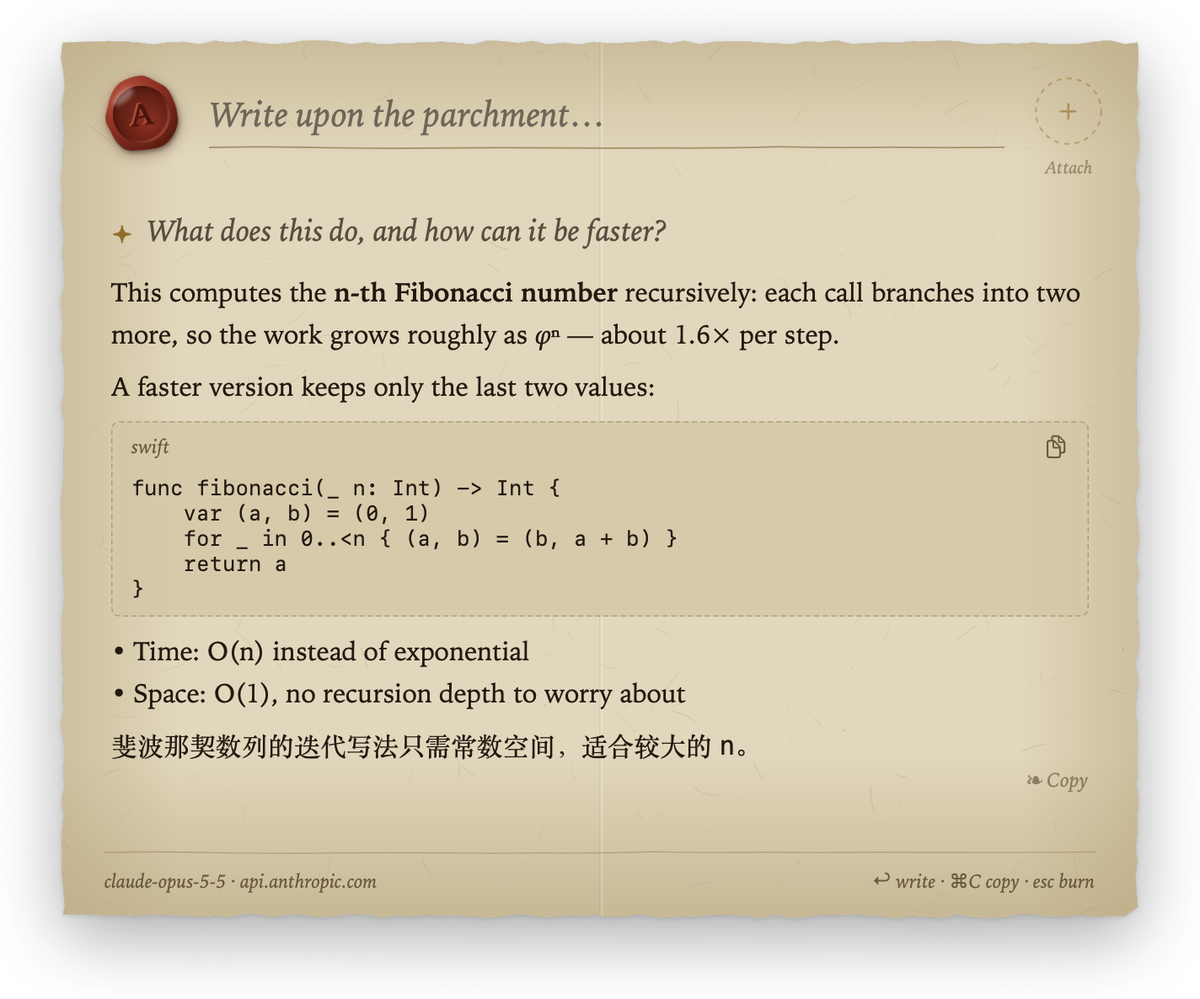
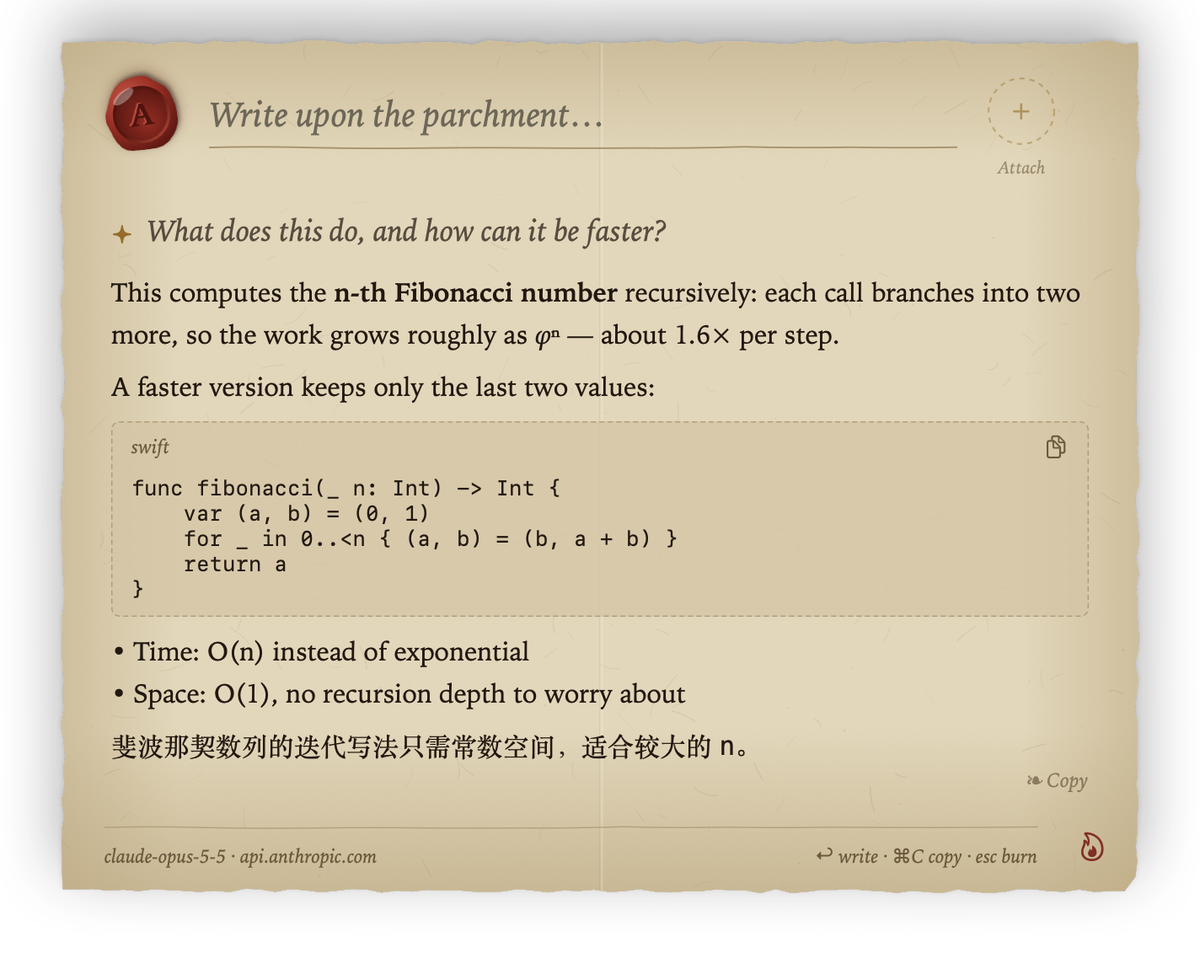
docs: align product guidance and screenshots with current behavior
Refresh synthetic app screenshots and bilingual setup/privacy guidance. Distinguish conceal from burn, mark superseded transcript rules, and preserve four tested boundary invariants in project guidance.

diff --git a/site/index.html b/site/index.html
@@ -4,7 +4,7 @@
   <meta charset="utf-8">
   <meta name="viewport" content="width=device-width, initial-scale=1">
   <title>Howler — Burn after reading</title>
-  <meta name="description" content="A sealed letter for quick AI questions on macOS. Write on parchment, a quill writes the answer, and the letter burns when you're done. Menu bar, any model, nothing saved.">
+  <meta name="description" content="A sealed letter for quick AI questions on macOS. Write on parchment, a quill writes the answer, and the letter burns when you're done. Menu bar, any model, no saved chat history.">
   <meta name="color-scheme" content="light dark">
   <meta name="theme-color" content="#f3ead6" media="(prefers-color-scheme: light)">
   <meta name="theme-color" content="#140f0b" media="(prefers-color-scheme: dark)">
@@ -155,13 +155,13 @@
       </p>
 
       <div class="feature">
-        <img src="assets/letter.webp" width="1200" height="999" loading="lazy" decoding="async" alt="A Howler letter: a question beside a crimson wax seal, and the answer written beneath it with a code block and a list">
+        <img src="assets/letter.webp" width="1424" height="1156" loading="lazy" decoding="async" alt="A Howler letter with the latest question and answer below the writing line, a Swift code block, and the bottom-right flame">
         <div>
           <h3><span class="en">Parchment and a quill</span><span class="zh">羊皮纸与羽毛笔</span></h3>
-          <p><span class="en">Deckled edges, fibers, a fold. Your question sits on a ruled line; the answer streams in at a hand's pace, fresh ink glowing gold before it settles to sepia. The sheet grows with the answer, up to an A4 page.</span>
-          <span class="zh">毛边、纤维纹理、一道折痕。问题写在横线上，回答按手写的节奏逐字出现，新墨先泛起金光，再沉为墨色。纸随回答向下展开，最长到 A4 比例。</span></p>
-          <p><span class="en">Markdown, code blocks with copy, and follow-up questions on the same sheet, separated by a fleuron.</span>
-          <span class="zh">支持 Markdown 和可复制的代码块；追问写在同一张纸上，每轮之间用花饰隔开。</span></p>
+          <p><span class="en">Deckled edges, fibers, a fold. The newest question and answer sit just below the writing line, with earlier exchanges beneath them. The answer streams in at a hand's pace, fresh ink glowing gold before it settles to sepia. The sheet grows up to an A4 page or the available screen height; scroll down to read more.</span>
+          <span class="zh">毛边、纤维纹理、一道折痕。最新一轮问题和回答紧贴输入框下方，旧轮次依次排在下面。回答按手写的节奏逐字出现，新墨先泛起金光，再沉为墨色。纸随回答向下展开，达到 A4 比例或屏幕可用高度后，可向下滚动继续阅读。</span></p>
+          <p><span class="en">Markdown, code blocks with copy, and follow-up questions on the same sheet, separated by a fleuron. Sending a question returns to the top.</span>
+          <span class="zh">支持 Markdown 和可复制的代码块；追问写在同一张纸上，每轮之间用花饰隔开。发送问题时回到顶部。</span></p>
         </div>
       </div>
 
@@ -169,18 +169,18 @@
         <img src="assets/burning.webp" width="960" height="799" loading="lazy" decoding="async" alt="The letter catching fire at its bottom edge, scorch and sparks climbing toward the seal">
         <div>
           <h3><span class="en">Burn after reading</span><span class="zh">阅后即焚</span></h3>
-          <p><span class="en">Press Esc, and the letter catches fire at its bottom edge. Scorch, embers and sparks climb to the seal, and the conversation goes with them. Nothing is kept.</span>
-          <span class="zh">按 Esc，信纸从底边起火，焦痕、火光和火星一路烧到火漆印，这次对话也随之烧掉，什么都不留。</span></p>
-          <p class="aside"><span class="en">Reduce Motion skips the fire; the letter simply goes.</span><span class="zh">开启“减少动态效果”时不播放燃烧，信纸直接收起。</span></p>
+          <p><span class="en">Press Esc or click the bottom-right flame to burn the letter and clear the local conversation. Scorch, embers and sparks climb to the seal. Pressing ⌥H while focused conceals it; opening Settings also keeps it in memory. Clicking outside only returns focus. Burning does not delete records kept by your model service.</span>
+          <span class="zh">按 Esc 或点击右下角火焰，焚烧信纸并清空本地会话，焦痕、火光和火星一路烧到火漆印。信纸聚焦时按 ⌥H 暂时收起，打开设置也会保留内存会话；点击纸外只交出焦点。焚烧不会删除模型服务保留的记录。</span></p>
+          <p class="aside"><span class="en">Reduce Motion skips the fire; burning still clears the conversation immediately.</span><span class="zh">开启“减少动态效果”时不播放燃烧，焚烧仍会立即清空会话。</span></p>
         </div>
       </div>
 
       <div class="feature">
-        <img src="assets/letter-dark.webp" width="960" height="799" loading="lazy" decoding="async" alt="The same letter on candlelit paper in Dark Mode">
+        <img src="assets/letter-dark.webp" width="1424" height="1156" loading="lazy" decoding="async" alt="A Howler letter in Dark Mode, with the latest question and answer below the writing line">
         <div>
           <h3><span class="en">Wax-sealed context, candlelit at night</span><span class="zh">火漆附件，夜里是烛光</span></h3>
-          <p><span class="en">Paste a long text or a picture, or capture a region of the screen: it is sealed into an amber seal cut with runes instead of filling your question. The clipboard is read only when you paste.</span>
-          <span class="zh">粘贴长文本或图片，或截取屏幕区域，内容会封进一枚刻着符文的琥珀色火漆印，不会塞进问题里。剪贴板只在你粘贴时读取。</span></p>
+          <p><span class="en">Paste a long text or a picture to seal it into an amber seal cut with runes, then send it when ready. Capture and Explain (<kbd>⌥⇧H</kbd> or Attach) sends the selected screen region to your configured model immediately and starts an introduction. Cancelling the selection sends nothing. The clipboard is read only when you paste.</span>
+          <span class="zh">粘贴长文本或图片，内容会封进一枚刻着符文的琥珀色火漆印，等你手动发送。通过 <kbd>⌥⇧H</kbd> 或 Attach 的 Capture and Explain 框选截图，完成后会立即发送到已配置的模型并开始介绍；取消框选不发送。剪贴板只在你粘贴时读取。</span></p>
           <p><span class="en">In Dark Mode the paper dims to candlelight, so it never glares against a dark desktop.</span>
           <span class="zh">深色模式下，纸张暗成烛光色，不会在深色桌面上刺眼。</span></p>
         </div>
@@ -191,15 +191,14 @@
     <section class="chapter" id="setup">
       <h2><span class="en">Any model. Set up by your assistant.</span><span class="zh">任何模型，交给 AI 助手配置</span></h2>
       <div class="feature flip">
-        <img class="settings-shot" src="assets/settings.webp" width="1144" height="1290" loading="lazy" decoding="async" alt="Howler Settings, General tab: the model with its host, status, Check and Copy Setup Prompt, then the shortcut, launch at login, automatic updates and feedback">
+        <img class="settings-shot" src="assets/settings.webp" width="560" height="563" loading="lazy" decoding="async" alt="Howler Settings with General, Prompt and Shortcut tabs; General shows model status, API Key with Replace Key, Copy Setup Prompt, reply language and update preferences">
         <div>
-          <p><span class="en">Howler writes with one model service. Copy the setup prompt from Settings and paste it into Claude Code, Codex or any assistant that can run commands. It asks which model you want, reads the docs, configures Howler's built-in command line and checks it works.</span>
-          <span class="zh">Howler 只连接一个模型服务。在设置里复制配置提示词，粘贴给 Claude Code、Codex 等能运行命令的 AI 助手。它会问你想用哪个模型、查官方文档、用 Howler 自带的命令行写好配置，并检查能否正常回答。</span></p>
-          <p><span class="en">Your API key never enters the chat: you copy it, and it goes straight into the Keychain.</span>
-          <span class="zh">API Key 不会出现在聊天里：你复制好，它直接存进钥匙串。</span></p>
-<pre><code>pbpaste | Howler config set api-key --stdin
-Howler check
-✓ Passed: deepseek-flash answered.</code></pre>
+          <p><span class="en">Howler writes with one model service. Copy the setup prompt from Settings › General and paste it into Claude Code, Codex or any assistant that can run commands. It configures the service, model and request parameters through Howler's built-in command line.</span>
+          <span class="zh">Howler 只连接一个模型服务。在 Settings › General 复制配置提示词，粘贴给 Claude Code、Codex 等能运行命令的 AI 助手，由它通过 Howler 自带的命令行配置服务、模型和请求参数。</span></p>
+          <p><span class="en">Then return to General › API Key, choose Add Key or Replace Key, paste your key into the native secure field, and click Save &amp; Check. The key goes directly into macOS Keychain; never send it in the assistant's chat. Save &amp; Check saves the key and sends one test request.</span>
+          <span class="zh">然后回到 General › API Key，选择 Add Key 或 Replace Key，在原生密码输入框中粘贴密钥，点击 Save &amp; Check。密钥直接存入 macOS 钥匙串，不要发到助手的聊天里。Save &amp; Check 保存密钥后只发送一次测试请求。</span></p>
+<pre><code>Howler config set preset=deepseek
+Howler config show</code></pre>
         </div>
       </div>
 
@@ -215,9 +214,11 @@ Howler check
 
     <!-- Privacy -->
     <section class="chapter" id="privacy">
-      <h2><span class="en">Nothing is saved</span><span class="zh">什么都不保存</span></h2>
+      <h2><span class="en">No saved chat history</span><span class="zh">不保存聊天历史</span></h2>
       <ul class="vows">
-        <li><span class="en">No chat history, ever. Messages live in memory and burn with the letter.</span><span class="zh">从不保存对话：消息只在内存里，随信纸烧掉。</span></li>
+        <li><span class="en">Howler keeps the conversation in memory when concealed. Burning the letter or quitting clears messages and parsed-answer caches; restarting does not restore them.</span><span class="zh">暂时收起时，Howler 保留内存会话；焚烧信纸或退出应用才清空消息和回答解析缓存，重启不会恢复。</span></li>
+        <li><span class="en">Screen capture uses a temporary PNG that Howler attempts to delete after reading it.</span><span class="zh">截屏会使用临时 PNG 文件，Howler 读取后会尝试删除。</span></li>
+        <li><span class="en">Model settings and preferences are stored locally. Burning local content does not delete records kept by your model service.</span><span class="zh">模型设置和偏好保存在本机；本地焚烧不会删除模型服务保留的记录。</span></li>
         <li><span class="en">The API key lives in the macOS Keychain and is never printed.</span><span class="zh">API Key 存在 macOS 钥匙串里，从不打印。</span></li>
         <li><span class="en">Requests go straight to the service you chose, never through a relay.</span><span class="zh">请求直接发往你选择的服务，不经过任何中转。</span></li>
         <li><span class="en">No logs, no telemetry, no account.</span><span class="zh">没有日志，没有统计，不需要注册账号。</span></li>
@@ -231,7 +232,7 @@ Howler check
       <ol>
         <li><span class="en">Download <strong>Howler.dmg</strong> and drag Howler onto Applications.</span><span class="zh">下载 <strong>Howler.dmg</strong>，把 Howler 拖到 Applications。</span></li>
         <li><span class="en">Open it. It is signed with a Developer ID and notarized by Apple, so it opens like any other app.</span><span class="zh">打开它。应用已用 Developer ID 签名并经 Apple 公证，像其他应用一样直接打开。</span></li>
-        <li><span class="en">Copy the setup prompt from Settings, hand it to your assistant, then press <kbd>⌥H</kbd>.</span><span class="zh">在设置里复制配置提示词交给 AI 助手，然后按 <kbd>⌥H</kbd>。</span></li>
+        <li><span class="en">Hand the setup prompt to your assistant, then add your API key in Settings › General with Save &amp; Check. Press <kbd>⌥H</kbd> to write.</span><span class="zh">把配置提示词交给 AI 助手，再到 Settings › General 添加 API Key，点击 Save &amp; Check，然后按 <kbd>⌥H</kbd> 开始提问。</span></li>
       </ol>
       <div class="actions center">
         <a class="btn wax" href="https://github.com/HiAriesZhou/Howler/releases/latest/download/Howler.dmg">

diff --git a/ACCEPTANCE.md b/ACCEPTANCE.md
@@ -55,7 +55,7 @@ Run on macOS 14+ with the released `Howler.dmg` (or `Howler.zip`). Mark each ite
 - [ ] 书写中向下滚动阅读旧轮次：上方回答变长时所读位置保持不动；主动按回车发送后回到顶部，减少动态效果开启时不带滚动动画
 - [ ] 回答写完后出现 ❧ Copy；点击或按 ⌘C（未选中文字时）复制整条回答，显示 ✓ Copied；在输入框或回答里选中一段文字后按 ⌘C，只复制选中的部分
 - [ ] 多轮对话之间有 ❦ 花饰分隔；停在顶部时排队任务开始仍显示最新一轮，向下阅读旧轮次时自动开始下一轮不打断阅读
-- [ ] 系统设置开启“减少动态效果”：无落纸、盖章、火漆光晕、燃烧和逐字动画，文字随到随显，关闭时直接消失
+- [ ] 系统设置开启“减少动态效果”：无落纸、盖章、火漆光晕、燃烧和逐字动画，文字随到随显，焚烧时立即清空并消失，暂时收起仍保留会话
 
 
 ## 2b. 截图介绍与排队 / Screenshot introductions and queued replies
@@ -192,10 +192,12 @@ For each preset: `config set preset=…`, save a key, pass `check`, open the pan
 
 ## 5. 会话与隐私 / Session & privacy
 
-- [ ] 关闭面板后再打开：对话已清空
-- [ ] 生成过程中关闭面板：请求被取消，再打开为空白，不会出现旧回答
+- [ ] 用 ⌥H 暂时收起或打开设置后再唤回：原对话、草稿、图片与排队问题仍在；点击纸外只交出焦点
+- [ ] 生成过程中暂时收起：请求和队列继续，唤回显示已有内容；Esc 或火焰焚烧才立即取消请求并清空，再打开为空白，旧回调不能写入新会话
+- [ ] 焚烧或退出应用清空消息、图片、队列与回答解析缓存，重启不恢复；焚烧不删除模型服务保留的记录
+- [ ] 使用合成截图检查临时 PNG 生命周期：截图成功、取消、读取失败及过期回调路径均尝试清理；实际清理结果单独记录，不把尝试删除视为必然成功
 - [ ] `~/Library/Containers`、`~/Library/Application Support`、`~/Library/Caches` 中没有 Howler 的对话文件
-- [ ] UserDefaults 只持久化模型配置、密钥归属与配置版本元数据、检查结果、系统指令、快捷键及更新偏好；其中没有 API Key 或对话内容
+- [ ] UserDefaults 只持久化模型配置、密钥归属与配置版本元数据、检查结果、系统指令、快捷键、回答语言及更新偏好；其中没有 API Key 或对话内容
 - [ ] Console.app 中按进程 Howler 过滤，发送消息时没有对话内容日志
 
 ## 6. 错误处理 / Errors
@@ -214,4 +216,34 @@ For each preset: `config set preset=…`, save a key, pass `check`, open the pan
 - [ ] tag 构建缺少 Developer ID 证书时失败，不发布 ad-hoc 包；普通分支构建仍允许 ad-hoc 签名
 - [ ] 推送不一致的 tag：CI 的 “Publish release” 步骤失败并说明原因
 
-- [ ] 旧截图开关关闭的配置升级后迁移为空快捷键；重新录入或恢复默认后重启，不会被旧开关再次停用
+## 9. 四阶段一致性回归 / Four-stage consistency regressions
+
+以下项目均待验证，未勾选不表示通过。记录候选版本、环境、证据类型和结果；使用合成内容、隔离配置及测试服务。发布反例在夹具或隔离仓库中验证，不改动已公开的正式产物。
+
+### 阶段 1：状态边界 / State boundaries
+
+- [ ] 对有待迁移旧配置的隔离环境运行 `help`、`config schema`、`config reset --help` 及无效参数：只输出说明或错误，不迁移、不修改配置、不访问钥匙串、不发请求
+- [ ] 真正执行 `config reset` 后，当前与待迁移旧配置及对应测试密钥均被清理；重启或运行其他命令不会恢复旧配置；钥匙串失败有明确错误，不误报成功
+- [ ] 将超过 280 字或 3 行的等待问题点 Edit 撤回：原问题仍在输入框，附件、图片关联与回答语言保持，不再经过粘贴转换；已有草稿不被覆盖，重新提交进入队尾
+- [ ] 当前回答和等待项并存，清空内存密钥缓存后从 CLI 或原生窗口替换、删除密钥：当前回答停止，队列暂停，只有显式继续才使用新配置；旧连接检查结果不能覆盖新状态
+- [ ] 拒绝、取消或模拟失败的密钥替换保留仍有效的旧密钥；保存过程中服务来源改变时拒绝旧输入，不把旧密钥绑定到新服务
+
+### 阶段 2：发布边界 / Release boundaries
+
+- [ ] 在隔离发布流程中让上传或验证失败：不产生缺少 ZIP、DMG 或 appcast 的公开最新版；已公开版本保持原样
+- [ ] 重跑同版本发布：相同产物可验证复用，内容不同则明确拒绝，不覆盖已公开附件；缺少发布说明、签名或必要凭据时在公开前停止
+- [ ] 模拟新旧版本任务交错完成：GitHub latest 与 Homebrew cask 不回退；旧任务跳过时有明确结果，API 失败不能伪装成成功跳过
+- [ ] Homebrew 重试复用对应版本 PR，不产生重复分支或 PR；缺少写入凭据、校验失败、已关闭 PR 或被修改的分支均按预期停止，不绕过 tap CI 或自动合并
+
+### 阶段 3：验证边界 / Verification boundaries
+
+- [ ] 三种协议分别使用合成流验证正常完成、截断、错误及断流：保留已收文字，异常不被当作成功完成，队列暂停，可显式重试或跳过
+- [ ] 合成超长 SSE 行或事件、连续注释及多字节分块：资源限制生效且错误可见，不无限积累内存；限制内的长回答仍能正常流式显示
+- [ ] 解析实际生成应用的 `Info.plist`，确认 URL scheme 为 `howler`，应用名、Bundle ID、版本和构建号与构建输入一致；正常截图链接可用，带参数或其他无效链接不读取屏幕、不发请求
+
+### 阶段 4：文档与兼容性 / Documentation and compatibility
+
+- [ ] 官网中英文与两份 README 一致：截图框选完成即发送、取消不发送；粘贴等手动发送；临时 PNG 尝试清理；收起保留内存，焚烧不删除服务端记录
+- [ ] 按官网配置流程操作：助手只配置非敏感参数，用户在原生 Add Key / Replace Key 窗口中输入密钥并点 Save & Check；不要求把密钥发给助手
+- [ ] 当前设置及浅色、深色信纸截图与实际构建一致，图片比例与说明准确，无私人内容；正文最新一轮在上，向下阅读保持位置，主动发送回顶部；旧计划已标明排序和滚动规则由 0.1.15 取代
+- [ ] 旧 ⌥Space、历史设置快捷键和禁用快捷键配置仍按既有规则迁移；旧截图开关关闭的配置迁移为空快捷键，重新录入或恢复默认后重启，不会被旧开关再次停用

diff --git a/README.md b/README.md
@@ -27,7 +27,7 @@
 </p>
 
 <p align="center">
-  <img src="docs/images/letter.png" width="720" alt="A Howler letter: a question beside a crimson wax seal, the answer written beneath it in ink">
+  <img src="docs/images/letter.png" width="720" alt="A Howler letter with the latest question and answer below the writing line, a Swift code block, and the bottom-right flame">
 </p>
 
 ---
@@ -39,7 +39,7 @@ Press **⌥H** anywhere. A letter settles at the top of the screen, already seal
 - **Parchment, not a text box.** The paper has deckled edges, fibers and a fold crease. The newest question and its answer sit just below the writing line, with earlier exchanges beneath them. The sheet grows downward up to an A4 page or the available screen height, then stays in place as the answer continues below the fold. Scroll down to read more; sending a question returns to the top.
 - **A quill that writes.** Answers stream in at a hand's pace. Fresh ink glows gold before it settles to sepia, and the quill rests after the last word. While the model thinks, the quill hovers and counts the seconds.
 - **Wax seals.** The crimson seal names the model writing to you. Paste a long text or a picture, or capture a region of the screen, and it is sealed into an amber seal cut with runes instead of filling your question.
-- **Burn after reading.** Press Esc or click the flame in the bottom-right corner, and the letter catches fire at its bottom edge. Scorch, embers and sparks climb to the seal, and the conversation goes with them. Nothing is saved.
+- **Burn after reading.** Press Esc or click the flame in the bottom-right corner, and the letter catches fire at its bottom edge. Scorch, embers and sparks climb to the seal as Howler clears the local conversation. This does not delete records kept by your model service.
 
 <table>
   <tr>
@@ -76,7 +76,7 @@ Releases before v0.1.4 were ad-hoc signed. If Gatekeeper stops one of those, rig
 Howler writes with one model service. The setup is short enough to hand to an AI assistant.
 
 <p align="center">
-  <img src="docs/images/settings.png" width="560" alt="Howler Settings with General, Prompt and Shortcut tabs; General contains model setup, reply language, login and update preferences">
+  <img src="docs/images/settings.png" width="560" alt="Howler Settings with General, Prompt and Shortcut tabs; General shows model status, API Key with Replace Key, Copy Setup Prompt, reply language and update preferences">
 </p>
 
 Open **Settings › General › Copy Setup Prompt** and paste it into Claude Code, Codex or another assistant that can run commands. It configures the service, model and request parameters. Then return to **General › API Key**, choose **Add Key** or **Replace Key**, paste the key into the secure field, and click **Save & Check**. The key goes directly into macOS Keychain; never send it in the assistant's chat.
@@ -146,8 +146,8 @@ Concealing the letter, clicking outside or opening Settings keeps the conversati
 
 ## Privacy
 
-- No chat history, ever. Messages and parsed-answer caches are cleared when the letter burns or the app quits. A concealed letter stays in memory. A screen capture uses a temporary PNG that Howler attempts to delete after reading it.
-- Stored: the model setup, its last check, your system prompt instructions, three optional shortcuts and reply language preference (UserDefaults), plus the API key (Keychain).
+- Howler does not write chat history to disk. Messages and parsed-answer caches are cleared when the letter burns or the app quits. A concealed letter stays in memory. A screen capture uses a temporary PNG that Howler attempts to delete after reading it.
+- Stored: the model setup, credential ownership and configuration revision metadata, the last check, your system prompt instructions, three optional shortcuts, reply language and update preferences (UserDefaults), plus the API key (Keychain).
 - The system prompt carries the date in UTC; tasks add the necessary reply language instruction. They send no full system language list, name, region, time zone or location.
 - The clipboard and the screen are read only when you paste or capture. Capture and Explain sends the selected region immediately. Burning local content does not delete data retained by your model service.
 - No logs, no telemetry. Network requests use an ephemeral `URLSession`.

diff --git a/docs/plans/2026-11-05-screenshot-conversation-design.md b/docs/plans/2026-11-05-screenshot-conversation-design.md
@@ -51,9 +51,11 @@ Howler 面向需要临时解释概念、翻译文字和理解截图的 macOS 用
 
 等待项位于输入框附近，显示问题摘要、目标图片和状态。未开始的问题可撤回到草稿修改；撤回不覆盖已有草稿，草稿非空时先处理当前草稿。重新提交加入队尾，不暗中合并或重排。
 
-正文顺序为“图片介绍 → 问题一与回答 → 问题二与回答”。等待项不提前混入介绍正文，内部生成的自动提问不伪装成用户手动输入。介绍使用简短的“图片介绍”标签。
+以下正文排序和滚动方案已由 0.1.15 取代，保留为历史设计。当前规则见[发布说明](../releases/0.1.15.md)与 [README](../../README.zh-CN.md)：任务仍按队列顺序执行，正文将最新开始的一轮放在输入框下方，旧轮次依次向下排列；向下阅读时保留位置，主动发送问题回到顶部。
 
-队列推进不强制滚动；用户位于底部时随正文显示跟随，向上阅读时保留位置。后台完成不抢焦点、不突然置顶。手动发送与自动推进应分别处理，避免现有消息数量变化逻辑强制跳到底部。
+原方案：正文顺序为“图片介绍 → 问题一与回答 → 问题二与回答”。等待项不提前混入介绍正文，内部生成的自动提问不伪装成用户手动输入。介绍使用简短的“图片介绍”标签。
+
+原方案：队列推进不强制滚动；用户位于底部时随正文显示跟随，向上阅读时保留位置。后台完成不抢焦点、不突然置顶。手动发送与自动推进应分别处理，避免现有消息数量变化逻辑强制跳到底部。
 
 ### 3.2 执行与显示边界
 

diff --git a/AGENTS.md b/AGENTS.md
@@ -17,6 +17,10 @@ Howler is a macOS 14+ menu bar app (Swift 5.10, SwiftPM). `HowlerCore` holds the
 - API keys belong in Keychain, never command arguments, logs, fixtures or documentation. Read the clipboard and screen only after a user action; use an ephemeral session for chat requests.
 - Preserve input-method composition, selection-aware copy, Reduce Motion, and legacy configuration/shortcut migration. Add manual checks when behavior changes.
 - The Settings footer shows either the current version or one Update button. A click authorizes only the offered update, including restart; cancellation, failure or session end clears that consent. Keep download validation and installation in Sparkle, with its progress and error UI. Informational and major-upgrade offers retain Sparkle's standard confirmation.
+- CLI help, version and schema output must not mutate settings, migrate data, access Keychain or send requests.
+- Restore queued drafts directly, preserving their text and context without passing them through paste or input conversion.
+- Detect configuration and credential changes independently of the in-memory cache; clearing a cache must not hide a change.
+- Never overwrite published release artifacts. Verify rejection and failure cases as well as successful paths.
 
 ## Commands
 

diff --git a/docs/plans/2026-11-05-screenshot-conversation-plan.md b/docs/plans/2026-11-05-screenshot-conversation-plan.md
@@ -4,6 +4,8 @@
 
 依据：[已确认设计](2026-11-05-screenshot-conversation-design.md)。本文为实施基线；每项验证必须单独取得证据，不能由计划状态推断已经通过。任务按依赖执行，每个完成的逻辑变更分别提交。
 
+历史说明：本文的正文排序和滚动方案已由 0.1.15 取代（见[发布说明](../releases/0.1.15.md)及[设计修订说明](2026-11-05-screenshot-conversation-design.md#31-输入和呈现)）。任务仍按队列顺序执行，正文最新一轮位于输入框下方，旧轮次依次向下排列；向下阅读时保留位置，主动发送问题回到顶部。下文相关旧步骤保留供追溯，不作为当前验收标准。
+
 ## 1. 当前代码与改动点
 
 | 当前行为 | 位置 | 必须改变的地方 |
